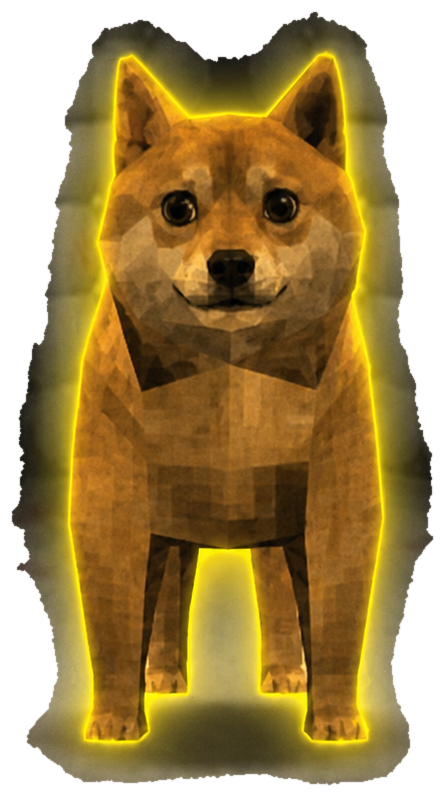
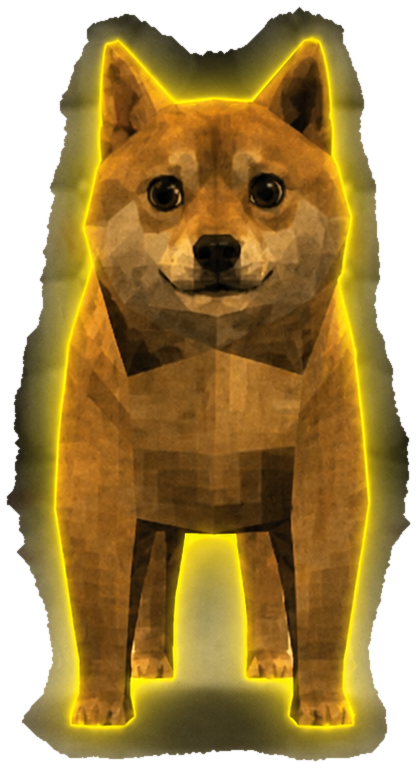
room: give the scene a real floor plane instead of wall-to-wall pads
Verified against a screen recording of the actual live reference next to
this site: REC/CAM/clock/DRIVE/dialog are genuinely part of the real
site (keeping them), but the room read as flat wallpaper with no floor,
pads didn't scale with depth, the dog was undersized, and the cutout had
a wide fuzzy fringe instead of a tight rim-light. Fixed all four:
distinct floor plane below the horizon with converging seam lines, pads
now grow toward the horizon and shrink toward the vanishing point, dog
base scale bumped up, cutout mask eroded tighter for a crisper glow.

diff --git a/app.js b/app.js
@@ -255,60 +255,91 @@ function createStage(canvas) {
     roomLayer = null;
   }
 
+  const HORIZON_FRAC = 0.35;
+
   function buildRoom() {
     const off = document.createElement('canvas');
     off.width = Math.round(cw); off.height = Math.round(ch);
     const rc = off.getContext('2d');
-    const g = rc.createLinearGradient(0, 0, 0, ch);
-    g.addColorStop(0, '#3a3a36');
-    g.addColorStop(0.55, '#222220');
-    g.addColorStop(1, '#131311');
-    rc.fillStyle = g;
-    rc.fillRect(0, 0, cw, ch);
+    const horizonY = ch * HORIZON_FRAC;
+    const vpX = cw * 0.5;
 
-    const vpX = cw * 0.5, vpY = ch * 0.34;
-    const cols = 9, rows = 6;
-    for (let r = 0; r <= rows; r++) {
-      const rowT = r / rows;
-      const y = vpY + (ch * 1.05 - vpY) * rowT * rowT;
-      const spread = (0.18 + 0.92 * rowT);
-      const padSize = 26 + 90 * rowT;
-      for (let c = 0; c <= cols; c++) {
-        const colT = c / cols - 0.5;
-        const x = vpX + colT * cw * 1.5 * spread;
-        if (x < -padSize || x > cw + padSize || y < vpY - 20) continue;
-        const shade = 40 + Math.round(28 * (1 - rowT)) + Math.round(hash(r, c * 13) * 10);
+    // walls: pads grow larger and spread wider toward the horizon (near), shrink toward the top (far)
+    const wallGrad = rc.createLinearGradient(0, 0, 0, horizonY);
+    wallGrad.addColorStop(0, '#232320');
+    wallGrad.addColorStop(1, '#3c3b33');
+    rc.fillStyle = wallGrad;
+    rc.fillRect(0, 0, cw, horizonY);
+
+    const rows = 6;
+    for (let r = 0; r < rows; r++) {
+      const t0 = r / rows, t1 = (r + 1) / rows;
+      const y0 = horizonY * Math.pow(t0, 1.7);
+      const y1 = horizonY * Math.pow(t1, 1.7);
+      const rowH = y1 - y0;
+      const padSize = Math.max(12, rowH * 0.9);
+      const spread = 0.22 + 1.3 * t1;
+      const cols = 3 + Math.round(4 * t1);
+      for (let c = -cols; c <= cols; c++) {
+        const x = vpX + (c / cols) * cw * 0.6 * spread;
+        const y = y0 + rowH / 2;
+        if (x < -padSize || x > cw + padSize) continue;
+        const seed = hash(r * 13 + 3, c * 31 + 7);
+        const base = 44 + Math.round(22 * t1) + Math.round(seed * 10);
         rc.save();
         rc.translate(x, y);
-        rc.fillStyle = `rgb(${shade + 26},${shade + 22},${shade + 16})`;
+        rc.fillStyle = `rgb(${base + 20},${base + 18},${base + 12})`;
         rc.beginPath();
-        rc.roundRect(-padSize / 2, -padSize / 2, padSize, padSize, padSize * 0.14);
+        rc.roundRect(-padSize / 2, -padSize / 2, padSize, padSize, padSize * 0.16);
         rc.fill();
-        rc.fillStyle = `rgba(0,0,0,${0.35 + 0.1 * rowT})`;
+        rc.fillStyle = `rgba(255,255,255,${0.05 + 0.05 * t1})`;
         rc.beginPath();
-        rc.arc(0, 0, Math.max(1.4, padSize * 0.05), 0, Math.PI * 2);
+        rc.arc(-padSize * 0.2, -padSize * 0.22, Math.max(1, padSize * 0.15), 0, Math.PI * 2);
         rc.fill();
-        if (hash(r * 31, c * 7) > 0.93) {
-          rc.fillStyle = `rgba(120,20,20,${0.18 + hash(r, c) * 0.2})`;
+        rc.fillStyle = `rgba(0,0,0,${0.32 + 0.12 * t1})`;
+        rc.beginPath();
+        rc.arc(padSize * 0.16, padSize * 0.18, Math.max(1.2, padSize * 0.07), 0, Math.PI * 2);
+        rc.fill();
+        if (hash(r * 31 + 2, c * 7 + 5) > 0.94) {
+          rc.fillStyle = `rgba(120,20,20,${0.15 + seed * 0.15})`;
           rc.beginPath();
-          rc.ellipse(padSize * 0.15, padSize * 0.1, padSize * 0.22, padSize * 0.14, 0.4, 0, Math.PI * 2);
+          rc.ellipse(padSize * 0.12, padSize * 0.06, padSize * 0.22, padSize * 0.13, 0.4, 0, Math.PI * 2);
           rc.fill();
         }
         rc.restore();
       }
     }
-    rc.fillStyle = 'rgba(0,0,0,0.35)';
+
+    // recessed door on the left wall, converging to the same vanishing point
+    rc.fillStyle = 'rgba(0,0,0,0.42)';
     rc.beginPath();
-    rc.moveTo(vpX, vpY);
-    rc.lineTo(vpX - 22, vpY + 26);
-    rc.lineTo(vpX - 40, vpY + 210);
-    rc.lineTo(vpX - 4, vpY + 210);
+    rc.moveTo(vpX - cw * 0.1, horizonY * 0.5);
+    rc.lineTo(vpX - cw * 0.19, horizonY * 0.6);
+    rc.lineTo(vpX - cw * 0.18, horizonY * 0.99);
+    rc.lineTo(vpX - cw * 0.08, horizonY * 0.99);
     rc.closePath();
     rc.fill();
 
-    const vg = rc.createRadialGradient(cw / 2, ch * 0.42, ch * 0.15, cw / 2, ch * 0.5, ch * 0.85);
+    // floor plane, distinct from the walls, with seams converging to the horizon
+    const floorGrad = rc.createLinearGradient(0, horizonY, 0, ch);
+    floorGrad.addColorStop(0, '#34322b');
+    floorGrad.addColorStop(0.5, '#211f1a');
+    floorGrad.addColorStop(1, '#121110');
+    rc.fillStyle = floorGrad;
+    rc.fillRect(0, horizonY, cw, ch - horizonY);
+
+    rc.strokeStyle = 'rgba(0,0,0,0.22)';
+    rc.lineWidth = 1;
+    for (let i = -4; i <= 4; i++) {
+      rc.beginPath();
+      rc.moveTo(vpX, horizonY);
+      rc.lineTo(vpX + i * cw * 0.16, ch);
+      rc.stroke();
+    }
+
+    const vg = rc.createRadialGradient(cw / 2, horizonY + (ch - horizonY) * 0.3, ch * 0.1, cw / 2, ch * 0.52, ch * 0.85);
     vg.addColorStop(0, 'rgba(0,0,0,0)');
-    vg.addColorStop(1, 'rgba(0,0,0,0.55)');
+    vg.addColorStop(1, 'rgba(0,0,0,0.58)');
     rc.fillStyle = vg;
     rc.fillRect(0, 0, cw, ch);
 
@@ -316,7 +347,7 @@ function createStage(canvas) {
   }
 
   function worldToScreen(X, Z, panX) {
-    const horizonY = ch * 0.36, floorY = ch * 0.965;
+    const horizonY = ch * HORIZON_FRAC, floorY = ch * 0.965;
     const focal = floorY - horizonY;
     const y = horizonY + focal / (Z / ZNEAR);
     const halfW = roomHalfWidthAt(Z);
@@ -356,7 +387,7 @@ function createStage(canvas) {
     else if (clamped.X < anchorX - deadzone) anchorX = clamped.X + deadzone;
 
     const proj = worldToScreen(clamped.X, clamped.Z, anchorX);
-    const baseH = ch * 0.64;
+    const baseH = ch * 0.74;
     const dogH = baseH * proj.scale * Math.abs(pose.sy) * (cw < 760 ? 1.1 : 1);
     const aspect = dogReady && dogImg.naturalWidth ? dogImg.naturalWidth / dogImg.naturalHeight : 0.56;
     const dogW = dogH * aspect * Math.abs(pose.sx) * (pose.sx < 0 ? -1 : 1);
